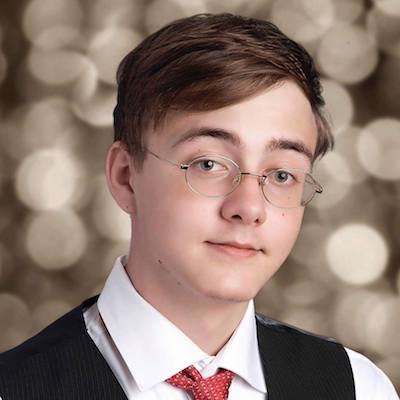
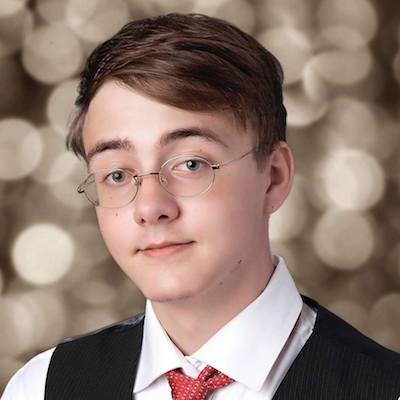
Flipped a few photos so that the light always comes in from the left, fixed bubble hover window

diff --git a/index.html b/index.html
@@ -2,22 +2,17 @@
 <html>
    <head>
       <title>Team 5212</title>
-      <!--Import Google Icon Font-->
       <link href="http://fonts.googleapis.com/icon?family=Material+Icons" rel="stylesheet">
-      <!--Import materialize.css-->
       <link type="text/css" rel="stylesheet" href="css/materialize.min.css"  media="screen,projection"/>
       <link type="text/css" rel="stylesheet" href="css/5212.css" />
-      <link type="text/css" rel="stylesheet" href="css/jquery-ui.min.css" />
 
-      <!--Let browser know website is optimized for mobile-->
       <meta name="viewport" content="width=device-width, initial-scale=1.0"/>
    </head>
    <body>
-      <!--Import jQuery before materialize.js-->
       <script type="text/javascript" src="js/jquery-2.1.1.min.js"></script>
       <script type="text/javascript" src="js/materialize.min.js"></script>
       <script type="text/javascript" src="js/jquery.scrollfire.min.js"></script>
-      <script type="text/javascript" src="js/init.js"></script>
+      <script type="text/javascript" src="js/5212.js"></script>
       <div class="navbar-fixed">
          <nav>
             <div class="nav-wrapper green lighten-2">
@@ -28,7 +23,7 @@
                   <li class="about nav"><a href="javascript:void(0);" onclick="javascript:scrollTo('about')">About</a></li>
                   <li class="outreach nav"><a href="javascript:void(0);" onclick="javascript:scrollTo('outreach')">Outreach</a></li>
                   <li class="members nav"><a href="javascript:void(0);" onclick="javascript:scrollTo('members')">Members</a></li>
-                  <a class="waves-effect waves-light btn red" href="http://www.gofundme.com/tamsformers-robotics-team-2016">donate</a>
+                  <a class="waves-effect waves-light btn red darken-1" href="http://www.gofundme.com/tamsformers-robotics-team-2016">donate</a>
                </ul>
             </div>
          </nav>
@@ -38,10 +33,8 @@
          <li class="about nav"><a href="javascript:void(0);" onclick="javascript:scrollTo('about')">About</a></li>
          <li class="outreach nav"><a href="javascript:void(0);" onclick="javascript:scrollTo('outreach')">Outreach</a></li>
          <li class="members nav"><a href="javascript:void(0);" onclick="javascript:scrollTo('members')">Members</a></li>
-         <a class="waves-effect waves-light btn red" href="http://www.gofundme.com/tamsformers-robotics-team-2016">donate</a>
+         <a class="waves-effect waves-light btn red darken-1" href="http://www.gofundme.com/tamsformers-robotics-team-2016">donate</a>
       </ul>
-
-
 
       <div>
          <div style="position:relative">
@@ -55,7 +48,7 @@
                      <div class="badgetitle">About</div>
                   </div>
                   <div class="badge hovered" style="opacity:0; top:60%; left:60%">
-                     <div class="badgetitle" style="color:#000; padding-top: 83px; font-size:13px">Learn more about our team<br />in general</div>
+                     <div class="badgetitle" style="color:#000; top: 83px; font-size:13px">Learn more about our team<br />in general</div>
                   </div>
                </a>
                <a href="javascript:void(0);" class="badge-container" onclick='javascript:scrollTo("outreach")'>
@@ -63,7 +56,7 @@
                      <div class="badgetitle">Outreach</div>
                   </div>
                   <div class="badge hovered" style="opacity:0; top:20%; left:20%">
-                     <div class="badgetitle" style="color:#000; padding-top: 80px; font-size:13px">Learn more about our<br />community outreach endeavors</div>
+                     <div class="badgetitle" style="color:#000; top: 80px; font-size:13px">Learn more about our<br />community outreach endeavors</div>
                   </div>
                </a>
                <a href="javascript:void(0);" class="badge-container" onclick='javascript:scrollTo("members")'>
@@ -71,7 +64,7 @@
                      <div class="badgetitle">Members</div>
                   </div>
                   <div class="badge hovered" style="opacity:0; top:19%; left:70%">
-                     <div class="badgetitle" style="color:#000; padding-top: 85px; font-size:13px">View our member photos</div>
+                     <div class="badgetitle" style="color:#000; top: 85px; font-size:13px">View our member photos</div>
                   </div>
                </a>
                <a href="http://www.gofundme.com/tamsformers-robotics-team-2016" class="badge-container">
@@ -79,7 +72,7 @@
                      <div class="badgetitle">Donate</div>
                   </div>
                   <div class="badge hovered" style="opacity:0; top:60%; left:11%">
-                     <div class="badgetitle" style="color:#000; padding-top: 85px; font-size:13px">Contribute to our team</div>
+                     <div class="badgetitle" style="color:#000; top: 85px; font-size:13px">Contribute to our team</div>
                   </div>
                </a>
             </span>
@@ -98,60 +91,75 @@
             <br /> <br />We have been representing the TAMS program at many different events in the DFW region. We were at the Earth Day Event in April 2016, ...
          </p>
          <h2 class="members header">Members</h2>
+         <center>
+            <center class="member-section-label">Execs</center>
+            <div class="members-container">
+               <div>
+                  <img class="img-circle exec-img" src="photos/andrew.jpg"></img>
+                  <center class="member-label">Andrew</center>
+                  <center class="member-title">Engineering lead</center>
+               </div>
+               <div>
+                  <img class="img-circle exec-img" src="photos/david.jpg"></img>
+                  <center class="member-label">David</center>
+                  <center class="member-title">Team captain</center>
+               </div>
+               <div>
+                  <img class="img-circle exec-img" src="photos/shelby.jpg"></img>
+                  <center class="member-label">Shelby</center>
+                  <center class="member-title">Business lead</center>
+               </div>
+            </div>
+            <center class="member-section-label">Others</center>
+            <div class="members-container">
+               <div>
+                  <img class="img-circle" src="photos/alex.jpg"></img>
+                  <center class="member-label">Alex</center>
+                  <center class="member-title">&nbsp;</center>
+               </div>
+               <div>
+                  <img class="img-circle" src="photos/alyssa.jpg"></img>
+                  <center class="member-label">Alyssa</center>
+                  <center class="member-title">&nbsp;</center>
+               </div>
+               <div>
+                  <img class="img-circle" src="photos/arko.jpg"></img>
+                  <center class="member-label">Arko</center>
+                  <center class="member-title">&nbsp;</center>
+               </div>
+               <div>
+                  <img class="img-circle" src="photos/cedric.jpg"></img>
+                  <center class="member-label">Cedric</center>
+                  <center class="member-title">&nbsp;</center>
+               </div>
+               <div>
+                  <img class="img-circle" src="photos/josiah.jpg"></img>
+                  <center class="member-label">Josiah</center>
+                  <center class="member-title">&nbsp;</center>
+               </div>
+               <div>
+                  <img class="img-circle" src="photos/kj.jpg"></img>
+                  <center class="member-label">KJ</center>
+                  <center class="member-title">&nbsp;</center>
+               </div>
+               <div>
+                  <img class="img-circle" src="photos/lan.jpg"></img>
+                  <center class="member-label">Lan</center>
+                  <center class="member-title">&nbsp;</center>
+               </div>
+               <div>
+                  <img class="img-circle" src="photos/tobias.jpg"></img>
+                  <center class="member-label">Tobias</center>
+                  <center class="member-title">&nbsp;</center>
+               </div>
+            </div>
+         </center>
+         <center class="member-label">And many more...</center>
+         <br />
+         <br />
       </div>
-      <center>
-         <center class="member-section-label">Execs</center>
-         <div class="members-container">
-            <div>
-               <img class="img-circle exec-img" src="photos/andrew.jpg"></img>
-               <center class="member-label">Andrew</center>
-               <center class="member-title">Engineering lead</center>
-            </div>
-            <div>
-               <img class="img-circle exec-img" src="photos/david.jpg"></img>
-               <center class="member-label">David</center>
-               <center class="member-title">Team captain</center>
-            </div>
-            <div>
-               <img class="img-circle exec-img" src="photos/shelby.jpg"></img>
-               <center class="member-label">Shelby</center>
-               <center class="member-title">Business lead</center>
-            </div>
-         </div>
-         <center class="member-section-label">Others</center>
-         <div class="members-container">
-            <div>
-               <img class="img-circle" src="photos/arko.jpg"></img>
-               <center class="member-label">Arko</center>
-               <center class="member-title">&nbsp;</center>
-            </div>
-            <div>
-               <img class="img-circle" src="photos/cedric.jpg"></img>
-               <center class="member-label">Cedric</center>
-               <center class="member-title">&nbsp;</center>
-            </div>
-            <div>
-               <img class="img-circle" src="photos/josiah.jpg"></img>
-               <center class="member-label">Josiah</center>
-               <center class="member-title">&nbsp;</center>
-            </div>
-            <div>
-               <img class="img-circle" src="photos/kj.jpg"></img>
-               <center class="member-label">KJ</center>
-               <center class="member-title">&nbsp;</center>
-            </div>
-            <div>
-               <img class="img-circle" src="photos/tobias.jpg"></img>
-               <center class="member-label">Tobias</center>
-               <center class="member-title">&nbsp;</center>
-            </div>
-         </div>
-      </center>
-      <center class="member-label">And many more...</center>
-      <br />
-      <br />
 
-      <center><a class="waves-effect waves-light btn-large blue" href="http://www.gofundme.com/tamsformers-robotics-team-2016">Click here to support us</a></center>
+      <center><a class="waves-effect waves-light btn-large red" href="http://www.gofundme.com/tamsformers-robotics-team-2016">Click here to support us</a></center>
       <br />
       <br />
    </body>

diff --git a/css/5212.css b/css/5212.css
@@ -33,7 +33,8 @@
 
 .badgetitle{
    color: #fff;
-   padding-top: 80px;
+   position: relative;
+   top: 80px;
 }
 
 .hovered{
